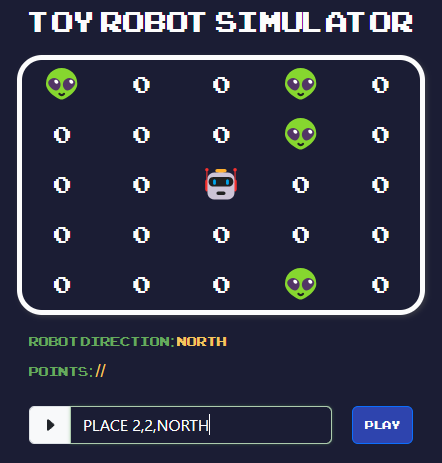
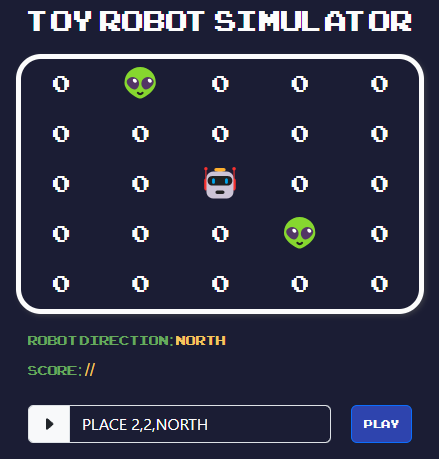
image changed

diff --git a/src/app/game/game.component.html b/src/app/game/game.component.html
@@ -24,7 +24,7 @@
         </h6>
     </div>
     <div class="row">
-        <h6 class="robot-direction">Points: 
+        <h6 class="robot-direction">Score: 
             @if (points) {
                 <span class="direction-field">{{points}}</span>
             } @else {
